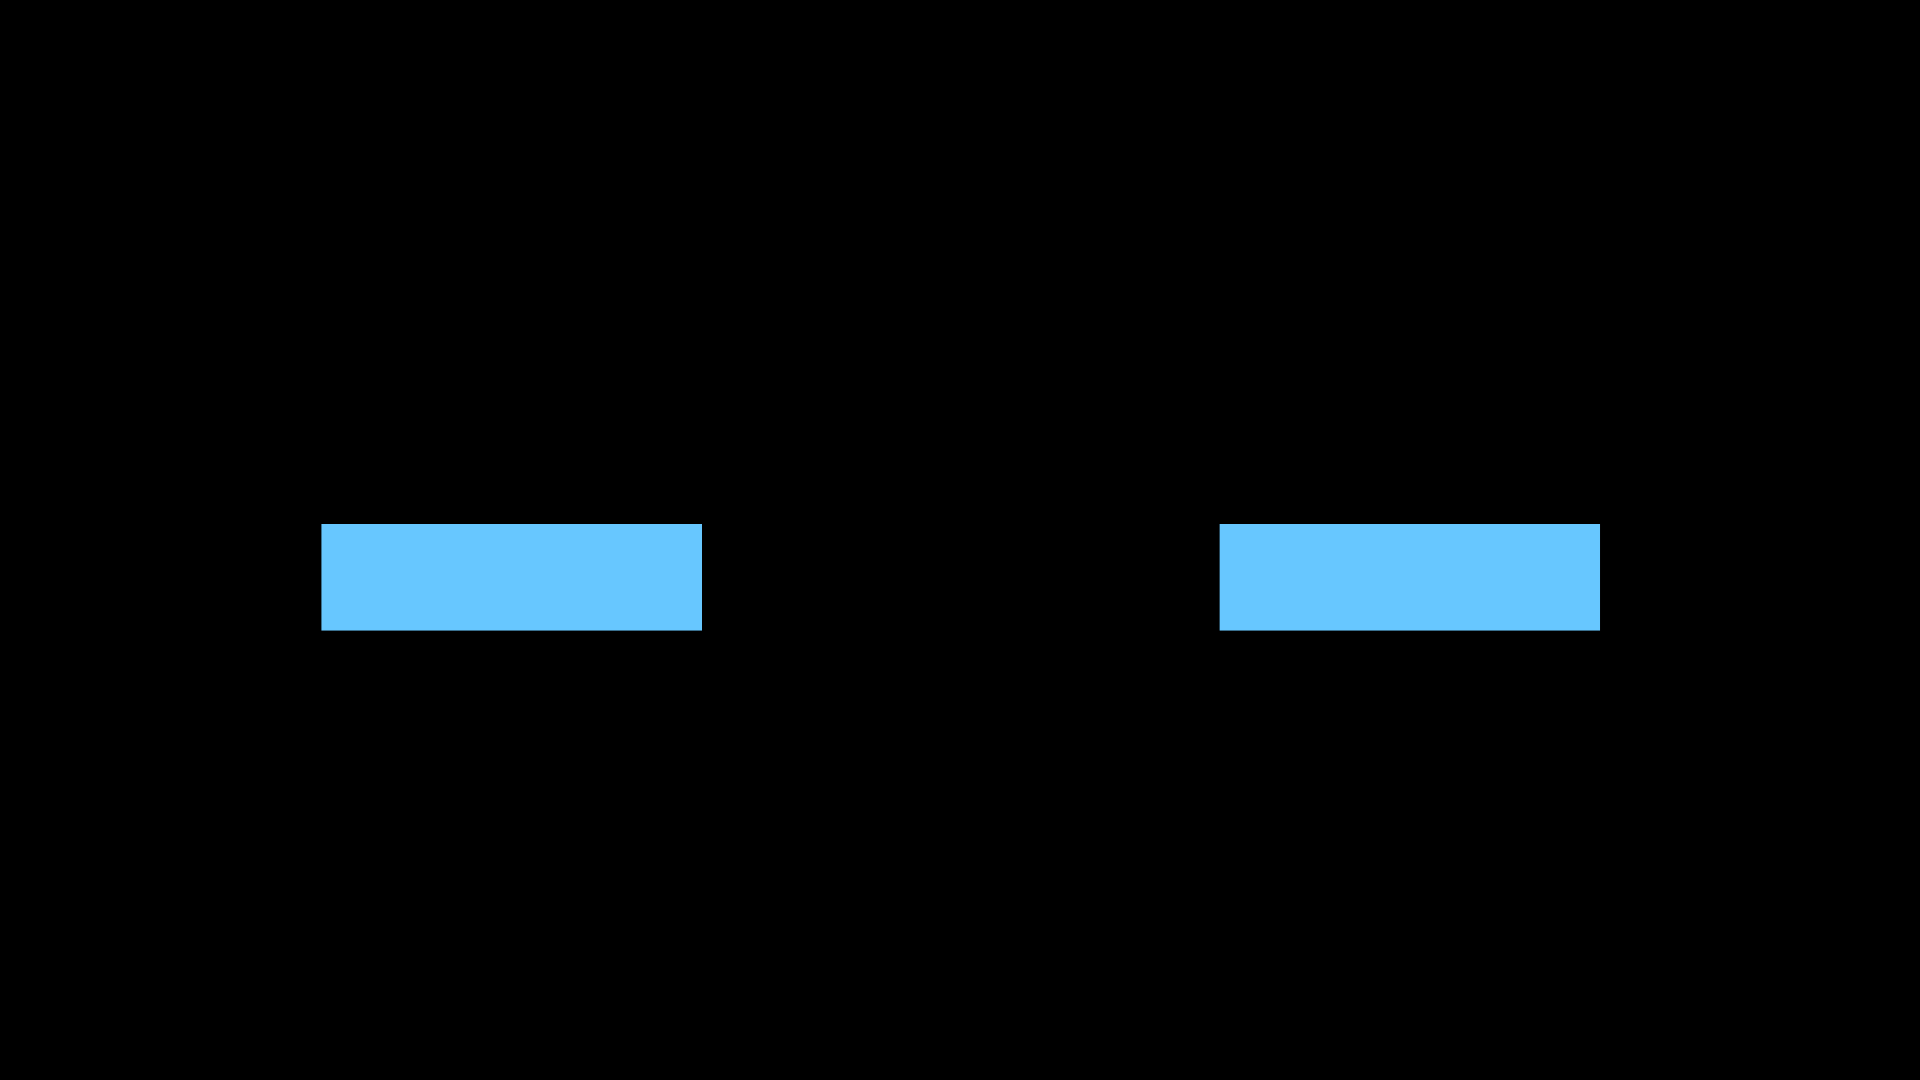
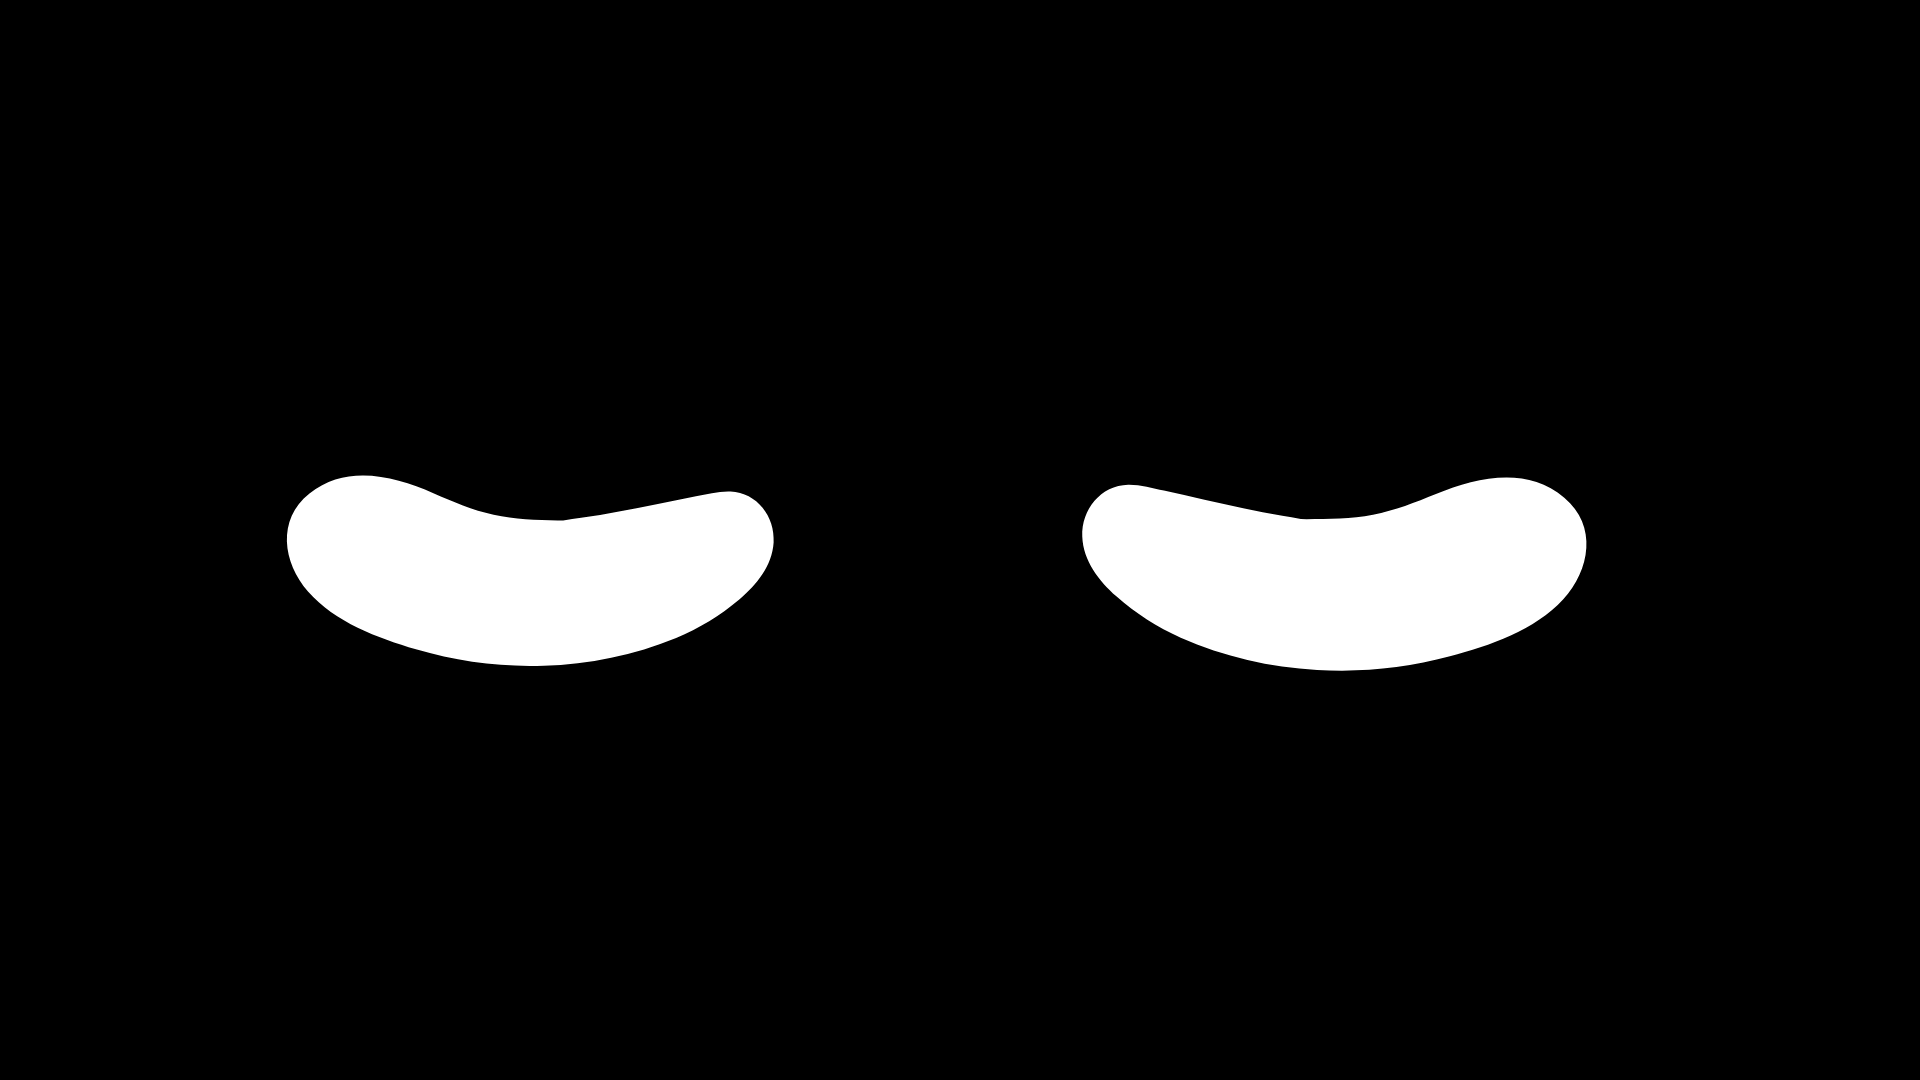
update eyes and routing

Changed region(s): [[0.5625, 0.4278, 0.8438, 0.6417], [0.125, 0.4278, 0.4062, 0.6417]]

diff --git a/robot-stl/app/img/page.tsx b/robot-stl/app/img/page.tsx
@@ -65,9 +65,9 @@ export default function Results() {
     return (
       <div>
       <div className={styles.back_button}>
-        <Link className='back-button' href={'/'}>
+        <a className='back-button' href={'/'}>
           <Image width="24" height="24" src="https://img.icons8.com/ios-filled/50/FFFFFF/home.png" alt="home--v1"/>
-        </Link>
+        </a>
       </div>
       <div className={styles.mic_button}>
         <Link className='mic-button' href={'/listening'}>

diff --git a/robot-stl/app/listening/page.tsx b/robot-stl/app/listening/page.tsx
@@ -10,7 +10,6 @@ import { Router } from "next/router";
 
 export default function Speech() {
     const router = useRouter();
-
     const fetcher = (url: string) => axios.get(url).then((res) => res.data);
     const {data, error} = useSWR('http://127.0.0.1:5328/api/listen', fetcher, {
         revalidateOnFocus: false, 
